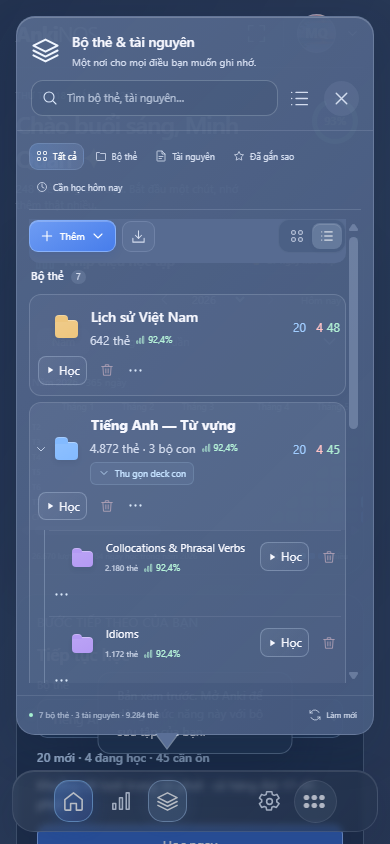
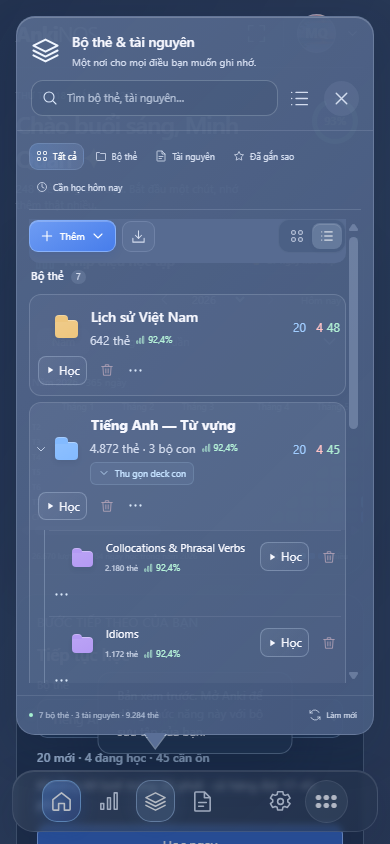
feat(ui): add study notebook button and update profile configuration

diff --git a/ankios-ui.html b/ankios-ui.html
@@ -53,6 +53,7 @@
         <button class="rail-button active" data-action="page" data-value="home" title="Tổng quan" aria-label="Tổng quan" aria-current="page"><svg class="icon"><use href="#i-home"/></svg><span>Tổng quan</span></button>
         <button class="rail-button" id="stats-toggle" data-action="page" data-value="stats" title="Thống kê" aria-label="Thống kê" aria-current="false"><svg class="icon"><use href="#i-chart"/></svg><span>Thống kê</span></button>
         <button class="rail-button" id="library-toggle" data-action="library" aria-haspopup="dialog" aria-expanded="false" aria-controls="library-dialog" title="Bộ thẻ & tài nguyên" aria-label="Bộ thẻ và tài nguyên"><svg class="icon"><use href="#i-layers"/></svg><span>Bộ thẻ</span></button>
+        <button type="button" class="rail-button" id="study-notebook" title="Sổ tay & tài liệu" aria-label="Sổ tay và tài liệu"><svg class="icon"><use href="#i-file"/></svg><span>Sổ tay & tài liệu</span></button>
       </div>
       <div class="rail-bottom">
         <button class="rail-button" data-action="preferences" title="Cài đặt Anki" aria-label="Cài đặt Anki"><svg class="icon"><use href="#i-settings"/></svg></button>
@@ -82,7 +83,6 @@
         <div class="study-actions"><button type="button" id="study-now" class="primary-button" disabled>Học ngay</button>
           <div class="study-focus-row"><button type="button" id="study-focus" class="subtle-button" disabled>Focus 30 phút</button><select id="study-budget" aria-label="Hôm nay tôi có"><option value="15">15 phút</option><option value="30" selected>30 phút</option><option value="60">60 phút</option></select></div></div>
         <button type="button" class="study-link" data-action="library">Chọn bộ thẻ khác</button>
-        <div class="study-extra"><button type="button" class="study-link" id="study-notebook">Sổ tay & tài liệu</button></div>
         <details class="study-more"><summary>Cách tính thời gian</summary>
           <p id="study-estimate" aria-live="polite">Bạn có thể bắt đầu ngay khi lịch học sẵn sàng.</p><p id="study-capacity"></p>
           <p id="study-estimate-source">Ước lượng từ lịch sử cá nhân.</p><p class="study-planning-note" id="study-planning-note"></p></details>
